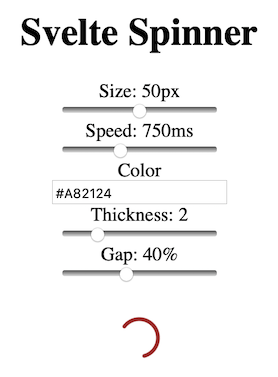
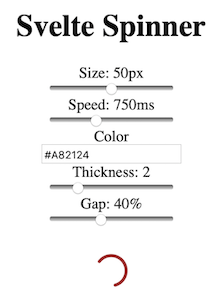
First usable setup; changes to the component are reflected in the running demo

diff --git a/app/App.svelte b/app/App.svelte
@@ -4,7 +4,7 @@
 
   // Use this for local developed code
   //import Spinner from 'components/Spinner.svelte';
-  import Spinner from 'components/Spinner.svelte';
+  import Spinner from '../src/index.svelte';
 
   let size = 50;
   let speed = 750;

diff --git a/src/index.svelte b/src/index.svelte
@@ -24,7 +24,7 @@
     r="{radius}"
     stroke="{color}"
     fill="none"
-    stroke-width="{thickness}"
+    stroke-width="{thickness * 2}"
     stroke-dasharray="{dash},100"
     stroke-linecap="round"
   />

diff --git a/README.md b/README.md
@@ -46,12 +46,12 @@ Observe the port mentioned and open [http://localhost:5000](http://localhost:500
 
 >![](.images/example-screenshot.png)
 
-<font size="+2" color=red>tbd. DOES NOT WORK</font>
-
 
 ## Developing
 
-While you're running the `npm run dev`, changes to the code should be reflected in the app. Try to change something.
+While you're running the `npm run dev`, changes to the code *should* be reflected in the app. Try to change something within the component, e.g. double the thickness.
+
+>Note: Currently, changes don't seem to auto-propagate. You'll have to refresh the browser. <!-- tbd. -->
 
 
 <!-- tbd.

diff --git a/TODO.md b/TODO.md
@@ -1,14 +1,9 @@
 # Todo
 
-## Bugs
-
-- `npm run dev` passes, but there's no spinner:
-	- empty browser window at `localhost:5000`
-	- in browser console: `ReferenceError: Can't find variable: Spinner`
-
----
-
 - [ ] Tests with mocha
 - [ ] publishing
+- [ ] auto-reload on changes to the component code
 
+- [ ] peer feedback from some seasoned Svelte 3 users
 
+ 

diff --git a/CHANGELOG.md b/CHANGELOG.md
@@ -1,5 +1,5 @@
-# 2.0.0
-Moved to Svelte v3.
+# Changelog
 
-# 1.0.0
-Moved to Svelte v2.
+## 24-Nov-19
+
+- Got the `app` vs. `src` approach to work (can demo the component without `npm` export)
